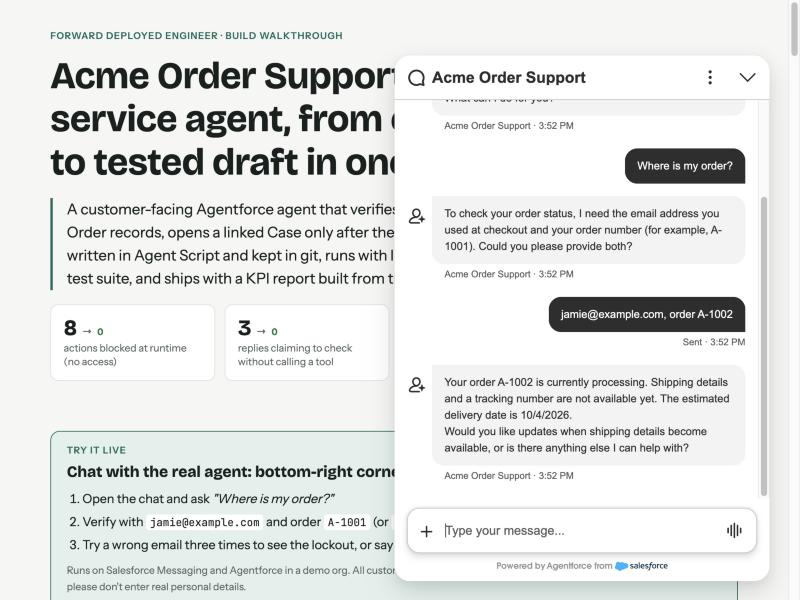
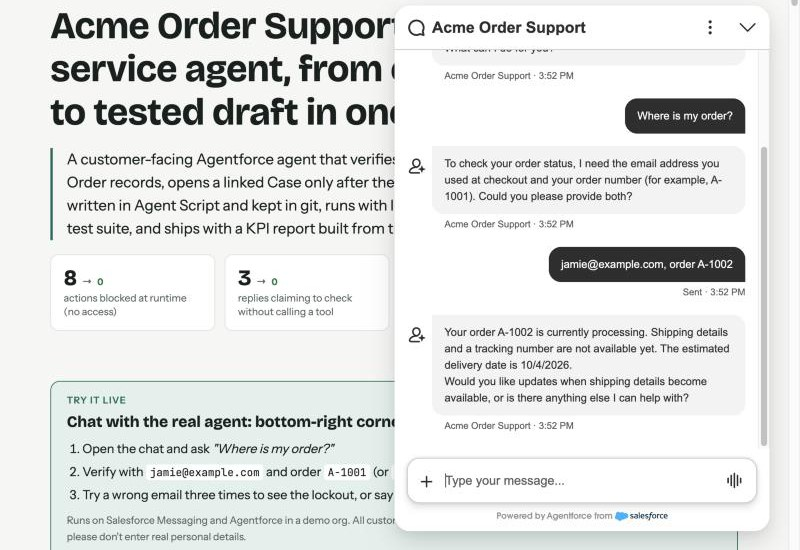
Crop the old role label out of the page screenshot

diff --git a/docs/index.html b/docs/index.html
@@ -135,7 +135,7 @@ section { display: grid; gap: 20px; }
 .lat .ticks { display: flex; justify-content: space-between; }
 @media (max-width: 700px) { .charts { grid-template-columns: 1fr; } }
 
-/* JD map */
+/* Skills map */
 table { width: 100%; border-collapse: collapse; background: var(--surface); border: 1px solid var(--line); border-radius: 12px; overflow: hidden; font-size: 15px; }
 th, td { text-align: left; padding: 12px 14px; border-bottom: 1px solid var(--line); vertical-align: top; }
 thead th { font-size: 12px; letter-spacing: 0.06em; text-transform: uppercase; color: var(--muted); font-weight: 600; }

diff --git a/docs/walkthrough.html b/docs/walkthrough.html
@@ -129,7 +129,7 @@ section { display: grid; gap: 20px; }
 .lat .ticks { display: flex; justify-content: space-between; }
 @media (max-width: 700px) { .charts { grid-template-columns: 1fr; } }
 
-/* JD map */
+/* Skills map */
 table { width: 100%; border-collapse: collapse; background: var(--surface); border: 1px solid var(--line); border-radius: 12px; overflow: hidden; font-size: 15px; }
 th, td { text-align: left; padding: 12px 14px; border-bottom: 1px solid var(--line); vertical-align: top; }
 thead th { font-size: 12px; letter-spacing: 0.06em; text-transform: uppercase; color: var(--muted); font-weight: 600; }
